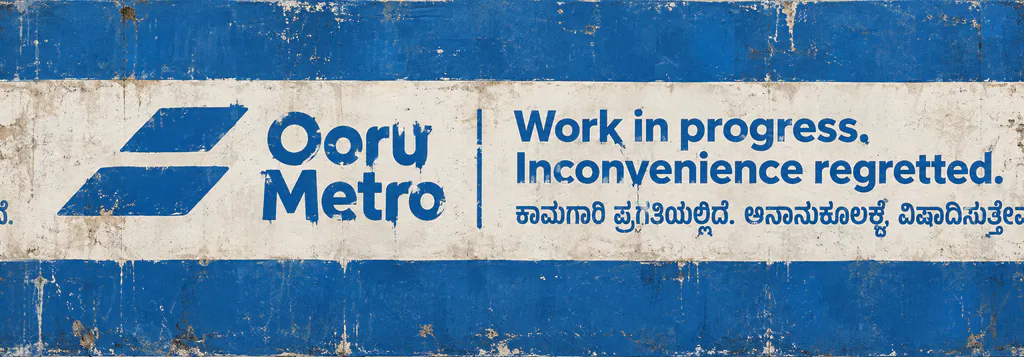
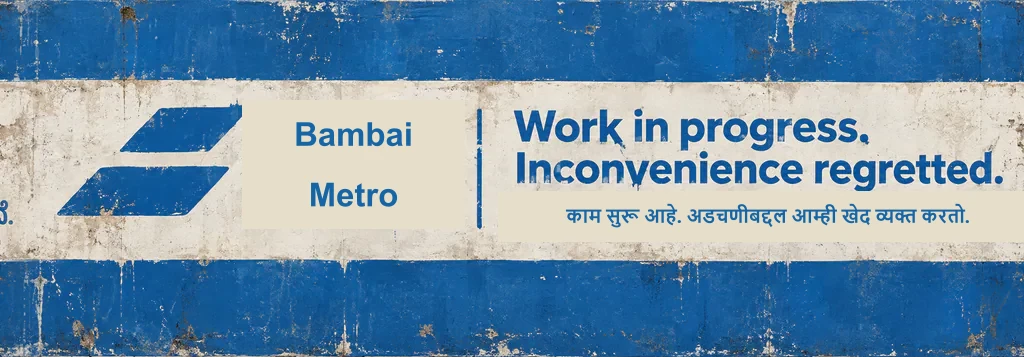
art: patch 10 pinned bangalore-content assets to Mumbai names (+8 variants); clear stale flags

Changed region(s): [[0.25, 0.2773, 0.4375, 0.6471], [0.5, 0.5546, 1.0, 0.6779]]

diff --git a/reference/osm/sheet-patched.html b/reference/osm/sheet-patched.html
@@ -1,0 +1,1 @@
+<body style="background:#222;color:#fff"><div style="display:inline-block;margin:4px;text-align:center"><img src="../art/shop-signs/SHOP-01.webp" style="width:360px;display:block;border:1px solid #999"><b>1: SHOP-01</b></div><div style="display:inline-block;margin:4px;text-align:center"><img src="../art/shop-signs/SHOP-01_2.webp" style="width:360px;display:block;border:1px solid #999"><b>2: SHOP-01_2</b></div><div style="display:inline-block;margin:4px;text-align:center"><img src="../art/shop-signs/SHOP-02.webp" style="width:360px;display:block;border:1px solid #999"><b>3: SHOP-02</b></div><div style="display:inline-block;margin:4px;text-align:center"><img src="../art/shop-signs/SHOP-02_2.webp" style="width:360px;display:block;border:1px solid #999"><b>4: SHOP-02_2</b></div><div style="display:inline-block;margin:4px;text-align:center"><img src="../art/shop-signs/SHOP-15.webp" style="width:360px;display:block;border:1px solid #999"><b>5: SHOP-15</b></div><div style="display:inline-block;margin:4px;text-align:center"><img src="../art/shop-signs/SHOP-15_2.webp" style="width:360px;display:block;border:1px solid #999"><b>6: SHOP-15_2</b></div><div style="display:inline-block;margin:4px;text-align:center"><img src="../art/shop-signs/SHOP-16.webp" style="width:360px;display:block;border:1px solid #999"><b>7: SHOP-16</b></div><div style="display:inline-block;margin:4px;text-align:center"><img src="../art/shop-signs/SHOP-16_2.webp" style="width:360px;display:block;border:1px solid #999"><b>8: SHOP-16_2</b></div><div style="display:inline-block;margin:4px;text-align:center"><img src="../art/shop-signs/SHOP-22.webp" style="width:360px;display:block;border:1px solid #999"><b>9: SHOP-22</b></div><div style="display:inline-block;margin:4px;text-align:center"><img src="../art/shop-signs/SHOP-22_2.webp" style="width:360px;display:block;border:1px solid #999"><b>10: SHOP-22_2</b></div><div style="display:inline-block;margin:4px;text-align:center"><img src="../art/shop-signs/SHOP-28.webp" style="width:360px;display:block;border:1px solid #999"><b>11: SHOP-28</b></div><div style="display:inline-block;margin:4px;text-align:center"><img src="../art/shop-signs/SHOP-28_2.webp" style="width:360px;display:block;border:1px solid #999"><b>12: SHOP-28_2</b></div><div style="display:inline-block;margin:4px;text-align:center"><img src="../art/shop-signs/SHOP-36.webp" style="width:360px;display:block;border:1px solid #999"><b>13: SHOP-36</b></div><div style="display:inline-block;margin:4px;text-align:center"><img src="../art/shop-signs/SHOP-36_2.webp" style="width:360px;display:block;border:1px solid #999"><b>14: SHOP-36_2</b></div><div style="display:inline-block;margin:4px;text-align:center"><img src="../art/shop-signs/SHOP-39.webp" style="width:360px;display:block;border:1px solid #999"><b>15: SHOP-39</b></div><div style="display:inline-block;margin:4px;text-align:center"><img src="../art/shop-signs/SHOP-39_2.webp" style="width:360px;display:block;border:1px solid #999"><b>16: SHOP-39_2</b></div><div style="display:inline-block;margin:4px;text-align:center"><img src="../art/banners/BLR-BAR-01.webp" style="width:360px;display:block;border:1px solid #999"><b>17: BLR-BAR-01</b></div><div style="display:inline-block;margin:4px;text-align:center"><img src="../art/hoardings/HRD-11.webp" style="width:360px;display:block;border:1px solid #999"><b>18: HRD-11</b></div></body>
